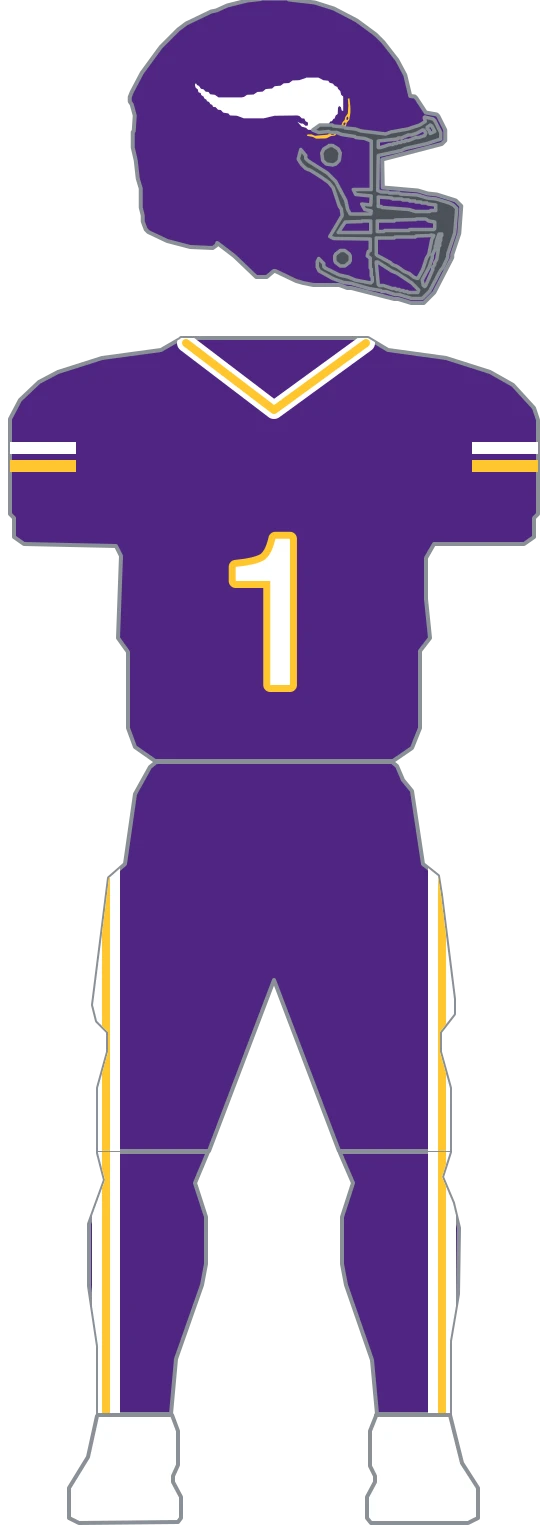
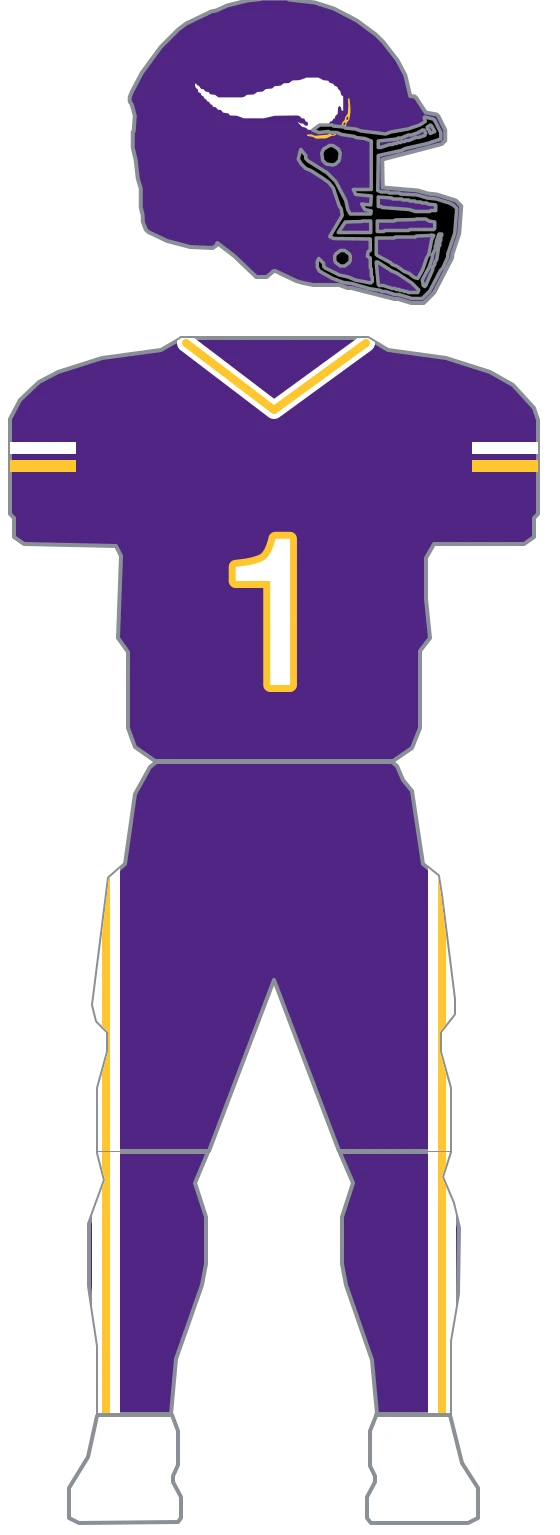
feat(uniforms): migrate Vikings to composable parts and set its facemasks (#706)
One construction across all four kits: horn-and-crescent on the shell, two
sleeve bands, a two-weight collar, and a two-weight pant stripe. Before
facemasks the parts factor to exactly 2 helmets / 2 jerseys / 3 pants, the
measured target — asserted directly, not just eyeballed.

The savings are the invisible kind. `home` and `purple-classic` are the same
jersey (purple body, white-over-gold bands, white numerals) reached through
different tokens, as are `away` and `winter-warrior`; `purple-classic` and
`winter-warrior` share a pants part. The away pants stay separate from home's
because the stripe order genuinely flips, gold-outside-white rather than
white-outside-gold.

The migration's parity gate proved all 8 vikings rasters (4 kits x 2 variants)
byte-identical against the flat definition, then the flat definition and its
builder helpers were deleted and the team removed from MIGRATED, per the
one-time-proof lifecycle (depth#660). The collar path was a module-private
const; it is now exported for the parts file.

Facemask follows the parts migration per phase order, and it splits the purple
shell in two. Every modern purple helmet on the GUD 2025 composite wears a
black cage; Winter Warrior's white shell wears a white one. But the 1965 kit's
era sheet shows a single-bar GREY facemask, so purple-classic keeps the shared
neutral rather than inheriting a modern black cage it never wore. Its rasters
are unchanged, by design — only three -full files move.

diff --git a/lib/uniforms/teams/vikings.parts.ts b/lib/uniforms/teams/vikings.parts.ts
@@ -1,0 +1,184 @@
+// Minnesota authored as composable parts. Geometry is imported unchanged from vikings.ts — this
+// file only restates WHICH parts each kit combines, and names every color from the team palette
+// instead of the kit row's shifting primary/secondary/accent.
+//
+// One construction across all four kits: horn-and-crescent on the shell, two sleeve bands, a
+// two-weight collar, and a two-weight pant stripe. Only which color sits above the other changes.
+//
+// The migration's measured target is 2 helmet / 2 jersey / 3 pants, and the parts BEFORE facemasks
+// factor to exactly that — which is what the parity gate proved. The savings are the invisible
+// kind: `home` and `purple-classic` are the same jersey (purple body, white-over-gold bands, white
+// numerals) reached through different tokens, as are `away` and `winter-warrior` (white body,
+// purple-over-gold), and `purple-classic` and `winter-warrior` share a pants part.
+//
+// The facemask then splits the purple shell in two, and that is a real distinction rather than a
+// failure to factor — see HELMET_PURPLE_CLASSIC.
+
+import {
+  VIKINGS_BAND_LOWER_LEFT,
+  VIKINGS_BAND_LOWER_RIGHT,
+  VIKINGS_BAND_UPPER_LEFT,
+  VIKINGS_BAND_UPPER_RIGHT,
+  VIKINGS_COLLAR_PATH,
+  VIKINGS_DECAL_CRESCENT_PATH,
+  VIKINGS_DECAL_HORN_PATH,
+  VIKINGS_PANTS_INNER_LEFT,
+  VIKINGS_PANTS_INNER_RIGHT,
+  VIKINGS_PANTS_OUTER_LEFT,
+  VIKINGS_PANTS_OUTER_RIGHT,
+} from './vikings';
+import { compileParts, type PartLayer, type TeamPartsDefinition, type UniformPart } from './parts';
+import type { UniformSurface } from './types';
+
+// One two-band set across all four kits; only which color sits above the other changes.
+function sleeveBands(upper: string, lower: string): PartLayer[] {
+  const shapes: [string, UniformSurface, string, string][] = [
+    ['vikings-band-upper-left', 'sleeve-left', VIKINGS_BAND_UPPER_LEFT, upper],
+    ['vikings-band-upper-right', 'sleeve-right', VIKINGS_BAND_UPPER_RIGHT, upper],
+    ['vikings-band-lower-left', 'sleeve-left', VIKINGS_BAND_LOWER_LEFT, lower],
+    ['vikings-band-lower-right', 'sleeve-right', VIKINGS_BAND_LOWER_RIGHT, lower],
+  ];
+  return shapes.map(([id, surface, d, fill]) => ({
+    id,
+    surface,
+    d,
+    clip: true,
+    kind: 'fill',
+    fill,
+  }));
+}
+
+function pantsStripes(outer: string, inner: string): PartLayer[] {
+  const shapes: [string, UniformSurface, string, string][] = [
+    ['vikings-pants-outer-left', 'leg-left', VIKINGS_PANTS_OUTER_LEFT, outer],
+    ['vikings-pants-outer-right', 'leg-right', VIKINGS_PANTS_OUTER_RIGHT, outer],
+    ['vikings-pants-inner-left', 'leg-left', VIKINGS_PANTS_INNER_LEFT, inner],
+    ['vikings-pants-inner-right', 'leg-right', VIKINGS_PANTS_INNER_RIGHT, inner],
+  ];
+  return shapes.map(([id, surface, d, fill]) => ({
+    id,
+    surface,
+    d,
+    clip: true,
+    kind: 'fill',
+    fill,
+  }));
+}
+
+function collar(outer: string, inner: string): PartLayer[] {
+  return (
+    [
+      ['vikings-collar-outer', outer, 18],
+      ['vikings-collar-inner', inner, 8],
+    ] as [string, string, number][]
+  ).map(([id, stroke, strokeWidth]) => ({
+    id,
+    surface: 'collar' as const,
+    d: VIKINGS_COLLAR_PATH,
+    clip: true,
+    kind: 'stroke' as const,
+    stroke,
+    strokeWidth,
+  }));
+}
+
+// Horn then crescent, both evenodd — a bold solid shape survives the small source where a thin
+// keyline would not.
+function decal(horn: string, crescent: string): PartLayer[] {
+  return (
+    [
+      ['vikings-decal-horn', VIKINGS_DECAL_HORN_PATH, horn],
+      ['vikings-decal-crescent', VIKINGS_DECAL_CRESCENT_PATH, crescent],
+    ] as [string, string, string][]
+  ).map(([id, d, fill]) => ({
+    id,
+    surface: 'helmet' as const,
+    d,
+    clip: true,
+    kind: 'fill' as const,
+    fillRule: 'evenodd' as const,
+    fill,
+  }));
+}
+
+// The modern purple shell (H1), worn by home and away: white horn over a gold crescent, black
+// cage. Every purple helmet figure on the GUD 2025 composite (nfl-uniform-refs/vikings) wears a
+// black facemask.
+const HELMET_PURPLE: UniformPart = {
+  base: 'purple',
+  facemask: 'black',
+  layers: decal('white', 'gold'),
+};
+
+// The 1965 shell (H2) is the same purple with the same mark, and would be the same part but for
+// the cage: the era sheet (vikings-purple-classic-era-1965.png) shows a single-bar GREY facemask,
+// not the modern black one. It is left on GENERIC_UNIFORM_STYLE's shared neutral rather than given
+// an eyedropped hex — the era sheet's bar samples around #9ea099/#969696, which is antialiasing
+// against a white ground and not a documented color. This is the ticket's "leave a shell on the
+// default rather than inventing a hex" case, and it is the one open question in this PR.
+const HELMET_PURPLE_CLASSIC: UniformPart = { base: 'purple', layers: decal('white', 'gold') };
+
+// Winter Warrior's white shell (H3): purple horn over a gold crescent, and a white cage to match
+// the shell, as the composite draws it.
+const HELMET_WHITE: UniformPart = {
+  base: 'white',
+  facemask: 'white',
+  layers: decal('purple', 'gold'),
+};
+
+// Purple jersey (J1) — home and the 1965 classic. White over gold on the sleeve, a white-over-gold
+// collar, white numerals with a gold keyline.
+const JERSEY_PURPLE: UniformPart = {
+  base: 'purple',
+  layers: [...sleeveBands('white', 'gold'), ...collar('white', 'gold')],
+  number: { fill: 'white', outline: 'gold', outlineWidth: 14 },
+};
+
+// White jersey (J2) — away and Winter Warrior. The bands invert to purple over gold so the upper
+// one reads against the body.
+const JERSEY_WHITE: UniformPart = {
+  base: 'white',
+  layers: [...sleeveBands('purple', 'gold'), ...collar('purple', 'gold')],
+  number: { fill: 'purple', outline: 'gold', outlineWidth: 14 },
+};
+
+// Home pants (P1): purple, white outside gold.
+const PANTS_PURPLE_WHITE: UniformPart = {
+  base: 'purple',
+  layers: pantsStripes('white', 'gold'),
+};
+
+// Away pants (P2): the same purple, but the stripe order flips to gold outside white — which is
+// why this is a second part and not a reuse of P1.
+const PANTS_PURPLE_GOLD: UniformPart = {
+  base: 'purple',
+  layers: pantsStripes('gold', 'white'),
+};
+
+// White pants (P3) — the 1965 classic and Winter Warrior both wear them, purple outside gold.
+const PANTS_WHITE: UniformPart = {
+  base: 'white',
+  layers: pantsStripes('purple', 'gold'),
+};
+
+export const VIKINGS_PARTS: TeamPartsDefinition = {
+  teamId: 'vikings',
+  // Jersey hexes from the curated rows (lib/uniforms/data.ts).
+  palette: {
+    purple: '#4F2683',
+    gold: '#FFC62F',
+    white: '#FFFFFF',
+    black: '#000000',
+  },
+  helmets: { purple: HELMET_PURPLE, classic: HELMET_PURPLE_CLASSIC, white: HELMET_WHITE },
+  jerseys: { purple: JERSEY_PURPLE, white: JERSEY_WHITE },
+  pants: { purpleWhite: PANTS_PURPLE_WHITE, purpleGold: PANTS_PURPLE_GOLD, white: PANTS_WHITE },
+  kits: {
+    home: { helmet: 'purple', jersey: 'purple', pants: 'purpleWhite' },
+    away: { helmet: 'purple', jersey: 'white', pants: 'purpleGold' },
+    'winter-warrior': { helmet: 'white', jersey: 'white', pants: 'white' },
+    'purple-classic': { helmet: 'classic', jersey: 'purple', pants: 'white' },
+  },
+};
+
+export const VIKINGS_UNIFORMS_FROM_PARTS = compileParts(VIKINGS_PARTS);

diff --git a/lib/uniforms/teams/vikings.ts b/lib/uniforms/teams/vikings.ts
@@ -1,9 +1,13 @@
-import type { ColorRef, TeamUniformDefinition, UniformLayer, UniformSurface } from './types';
-
 // Minnesota's four archived kits, redrawn from the Gridiron Uniform Database 2025 composite in
 // nfl-uniform-refs/vikings, with the 1965 kit read from that folder's era sheet. Sleeve and pant
 // paths use the outer 588-wide mannequin space; right paths mirror the left across the jersey
 // centerline x=294 (mirroredX = 588 - x).
+//
+// Construction geometry only — the mark, band, collar and pant-stripe paths. The composable parts
+// definition that consumes them lives in ./vikings.parts.ts; the former flat VIKINGS_UNIFORMS was
+// deleted in the migration that proved parts render byte-identically (see parts-parity.test.ts for
+// the one-time gate). The collar path was a module-private const; it is now exported for the parts
+// file.
 
 // The generic outline width of 26 is tuned for a keyline that reads at swatch size; Minnesota's
 // numerals carry a thin trim over a contrasting face, and at 26 the trim swallowed the face and
@@ -39,161 +43,4 @@ export const VIKINGS_PANTS_OUTER_RIGHT = 'M448,807 H476 V1462 H448 Z';
 export const VIKINGS_PANTS_INNER_LEFT = 'M122,807 H130 V1462 H122 Z';
 export const VIKINGS_PANTS_INNER_RIGHT = 'M458,807 H466 V1462 H458 Z';
 
-const COLLAR_PATH = 'M206,388 L294,455 L386,388';
-const GENERIC_STRIPPED = [
-  'generic-helmet-stripe',
-  'generic-sleeve-yoke-left',
-  'generic-sleeve-yoke-right',
-  'generic-sleeve-stripe-left',
-  'generic-sleeve-stripe-right',
-  'generic-collar',
-  'generic-pants-stripe-left',
-  'generic-pants-stripe-right',
-];
-
-// One two-band set across all four kits; only which color sits above the other changes.
-function sleeveBands(upper: ColorRef, lower: ColorRef): UniformLayer[] {
-  const shapes: { id: string; surface: UniformSurface; d: string; fill: ColorRef }[] = [
-    {
-      id: 'vikings-band-upper-left',
-      surface: 'sleeve-left',
-      d: VIKINGS_BAND_UPPER_LEFT,
-      fill: upper,
-    },
-    {
-      id: 'vikings-band-upper-right',
-      surface: 'sleeve-right',
-      d: VIKINGS_BAND_UPPER_RIGHT,
-      fill: upper,
-    },
-    {
-      id: 'vikings-band-lower-left',
-      surface: 'sleeve-left',
-      d: VIKINGS_BAND_LOWER_LEFT,
-      fill: lower,
-    },
-    {
-      id: 'vikings-band-lower-right',
-      surface: 'sleeve-right',
-      d: VIKINGS_BAND_LOWER_RIGHT,
-      fill: lower,
-    },
-  ];
-  return shapes.map((s): UniformLayer => ({ ...s, clip: true, kind: 'fill' }));
-}
-
-function pantsStripes(outer: ColorRef, inner: ColorRef): UniformLayer[] {
-  const shapes: { id: string; surface: UniformSurface; d: string; fill: ColorRef }[] = [
-    {
-      id: 'vikings-pants-outer-left',
-      surface: 'leg-left',
-      d: VIKINGS_PANTS_OUTER_LEFT,
-      fill: outer,
-    },
-    {
-      id: 'vikings-pants-outer-right',
-      surface: 'leg-right',
-      d: VIKINGS_PANTS_OUTER_RIGHT,
-      fill: outer,
-    },
-    {
-      id: 'vikings-pants-inner-left',
-      surface: 'leg-left',
-      d: VIKINGS_PANTS_INNER_LEFT,
-      fill: inner,
-    },
-    {
-      id: 'vikings-pants-inner-right',
-      surface: 'leg-right',
-      d: VIKINGS_PANTS_INNER_RIGHT,
-      fill: inner,
-    },
-  ];
-  return shapes.map((s): UniformLayer => ({ ...s, clip: true, kind: 'fill' }));
-}
-
-function collar(outer: ColorRef, inner: ColorRef): UniformLayer[] {
-  return [
-    { id: 'vikings-collar-outer', stroke: outer, strokeWidth: 18 },
-    { id: 'vikings-collar-inner', stroke: inner, strokeWidth: 8 },
-  ].map((s): UniformLayer => ({
-    ...s,
-    surface: 'collar',
-    d: COLLAR_PATH,
-    clip: true,
-    kind: 'stroke',
-  }));
-}
-
-function decal(horn: ColorRef, crescent: ColorRef): UniformLayer[] {
-  return [
-    { id: 'vikings-decal-horn', d: VIKINGS_DECAL_HORN_PATH, fill: horn },
-    { id: 'vikings-decal-crescent', d: VIKINGS_DECAL_CRESCENT_PATH, fill: crescent },
-  ].map((s): UniformLayer => ({
-    ...s,
-    surface: 'helmet',
-    clip: true,
-    kind: 'fill',
-    fillRule: 'evenodd',
-  }));
-}
-
-export const VIKINGS_UNIFORMS: TeamUniformDefinition = {
-  teamId: 'vikings',
-  kits: {
-    // Purple body, purple pants, purple shell — white over gold on the sleeve, white numerals with
-    // a gold keyline.
-    home: {
-      removeLayerIds: GENERIC_STRIPPED,
-      layers: [
-        ...decal(VIKINGS_WHITE, 'secondary'),
-        ...sleeveBands(VIKINGS_WHITE, 'secondary'),
-        ...collar(VIKINGS_WHITE, 'secondary'),
-        ...pantsStripes(VIKINGS_WHITE, 'secondary'),
-      ],
-      number: { fill: VIKINGS_WHITE, outline: 'secondary', outlineWidth: 14 },
-    },
-    // White body over purple pants and the purple shell; the upper band becomes purple so it reads.
-    away: {
-      helmetColor: 'secondary',
-      pantsColor: 'secondary',
-      removeLayerIds: GENERIC_STRIPPED,
-      layers: [
-        ...decal(VIKINGS_WHITE, 'accent'),
-        ...sleeveBands('secondary', 'accent'),
-        ...collar('secondary', 'accent'),
-        ...pantsStripes('accent', VIKINGS_WHITE),
-      ],
-      number: { fill: 'secondary', outline: 'accent', outlineWidth: 14 },
-    },
-    // Winter Warrior stores the same palette as away and differs only in construction: the shell
-    // and pants go white too, leaving the purple/gold bands as the only color on the figure.
-    'winter-warrior': {
-      helmetColor: VIKINGS_WHITE,
-      pantsColor: VIKINGS_WHITE,
-      removeLayerIds: GENERIC_STRIPPED,
-      layers: [
-        ...decal('secondary', 'accent'),
-        ...sleeveBands('secondary', 'accent'),
-        ...collar('secondary', 'accent'),
-        ...pantsStripes('secondary', 'accent'),
-      ],
-      number: { fill: 'secondary', outline: 'accent', outlineWidth: 14 },
-    },
-    // 1965: purple body over white pants. Its palette carries a real white in `accent`, so nothing
-    // here needs a literal. The era sheet shows a denser sleeve set than the modern two bands —
-    // this reuses the measured modern geometry rather than inventing a count, so treat the band
-    // spacing as approximate while the colors and layout are right.
-    'purple-classic': {
-      pantsColor: 'accent',
-      removeLayerIds: GENERIC_STRIPPED,
-      layers: [
-        ...decal('accent', 'secondary'),
-        ...sleeveBands('accent', 'secondary'),
-        ...collar('accent', 'secondary'),
-        ...pantsStripes('primary', 'secondary'),
-      ],
-      number: { fill: 'accent', outline: 'secondary', outlineWidth: 14 },
-    },
-  },
-};
+export const VIKINGS_COLLAR_PATH = 'M206,388 L294,455 L386,388';

diff --git a/lib/uniforms/teams/index.ts b/lib/uniforms/teams/index.ts
@@ -30,7 +30,7 @@ import { SEAHAWKS_UNIFORMS_FROM_PARTS } from './seahawks.parts';
 import { STEELERS_UNIFORMS_FROM_PARTS } from './steelers.parts';
 import { TEXANS_UNIFORMS_FROM_PARTS } from './texans.parts';
 import { TITANS_UNIFORMS_FROM_PARTS } from './titans.parts';
-import { VIKINGS_UNIFORMS } from './vikings';
+import { VIKINGS_UNIFORMS_FROM_PARTS } from './vikings.parts';
 import type { TeamUniformDefinition } from './types';
 
 // Server-boundary registry for team construction definitions. Teams migrate to the composable
@@ -69,7 +69,7 @@ const DEFINITIONS: Readonly<Partial<Record<string, TeamUniformDefinition>>> = {
   steelers: STEELERS_UNIFORMS_FROM_PARTS,
   texans: TEXANS_UNIFORMS_FROM_PARTS,
   titans: TITANS_UNIFORMS_FROM_PARTS,
-  vikings: VIKINGS_UNIFORMS,
+  vikings: VIKINGS_UNIFORMS_FROM_PARTS,
 };
 
 export function getTeamUniformDefinition(teamId: string): TeamUniformDefinition | undefined {
